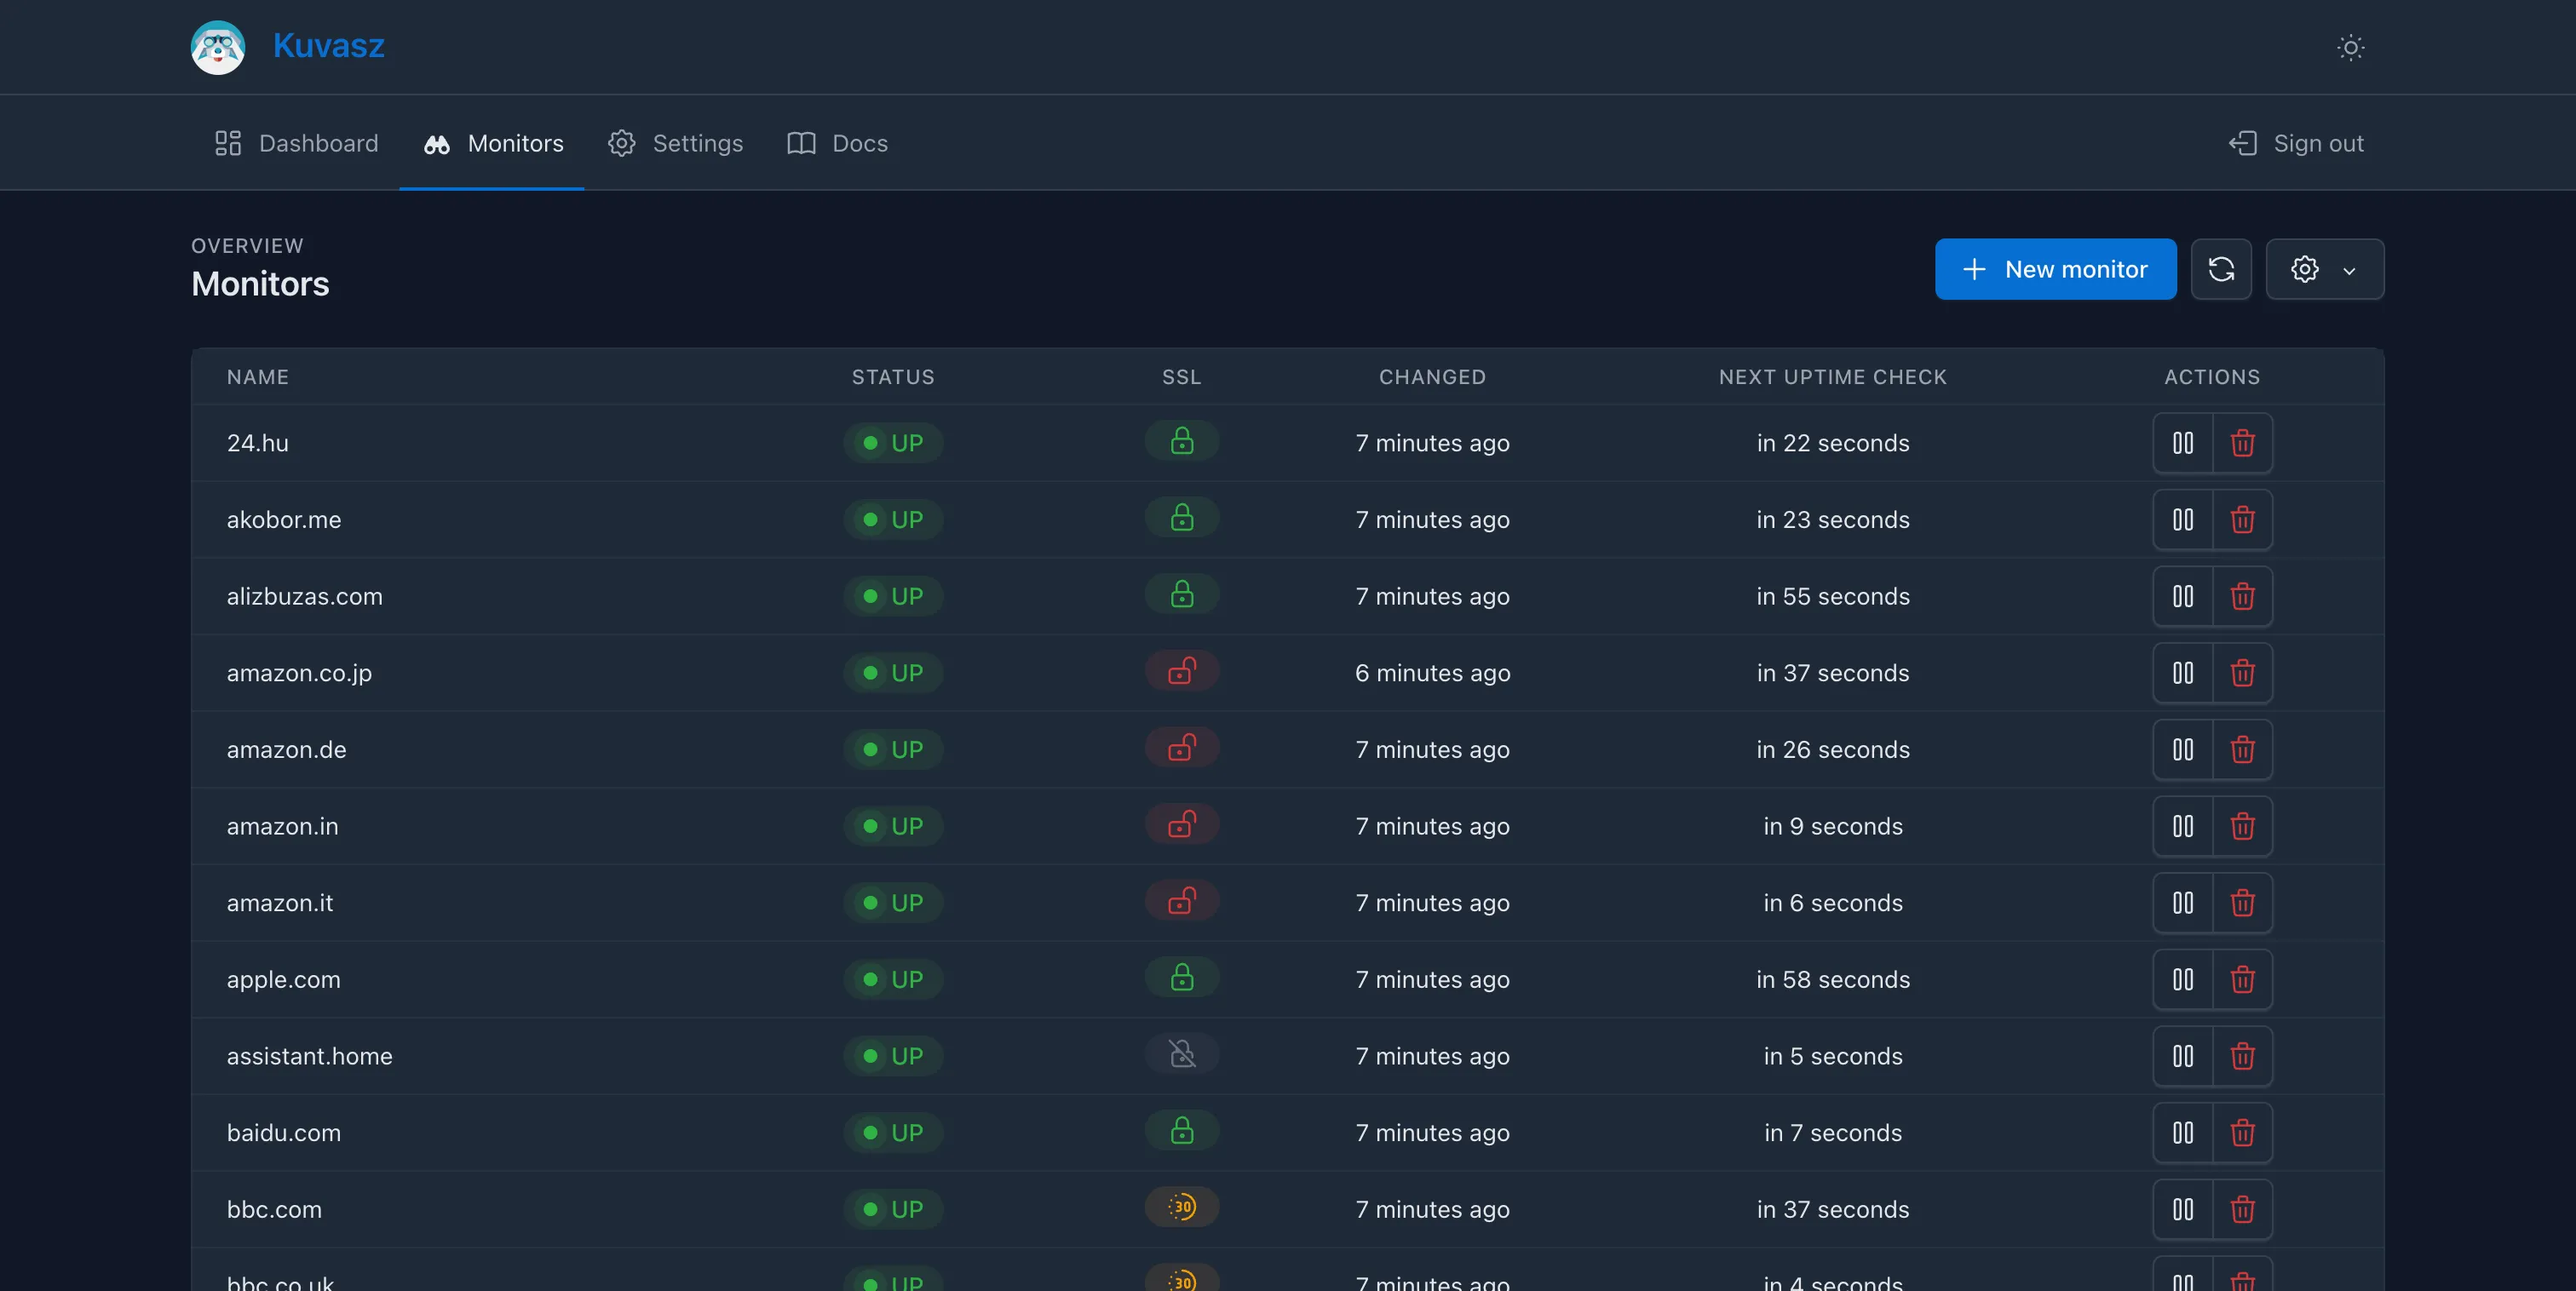
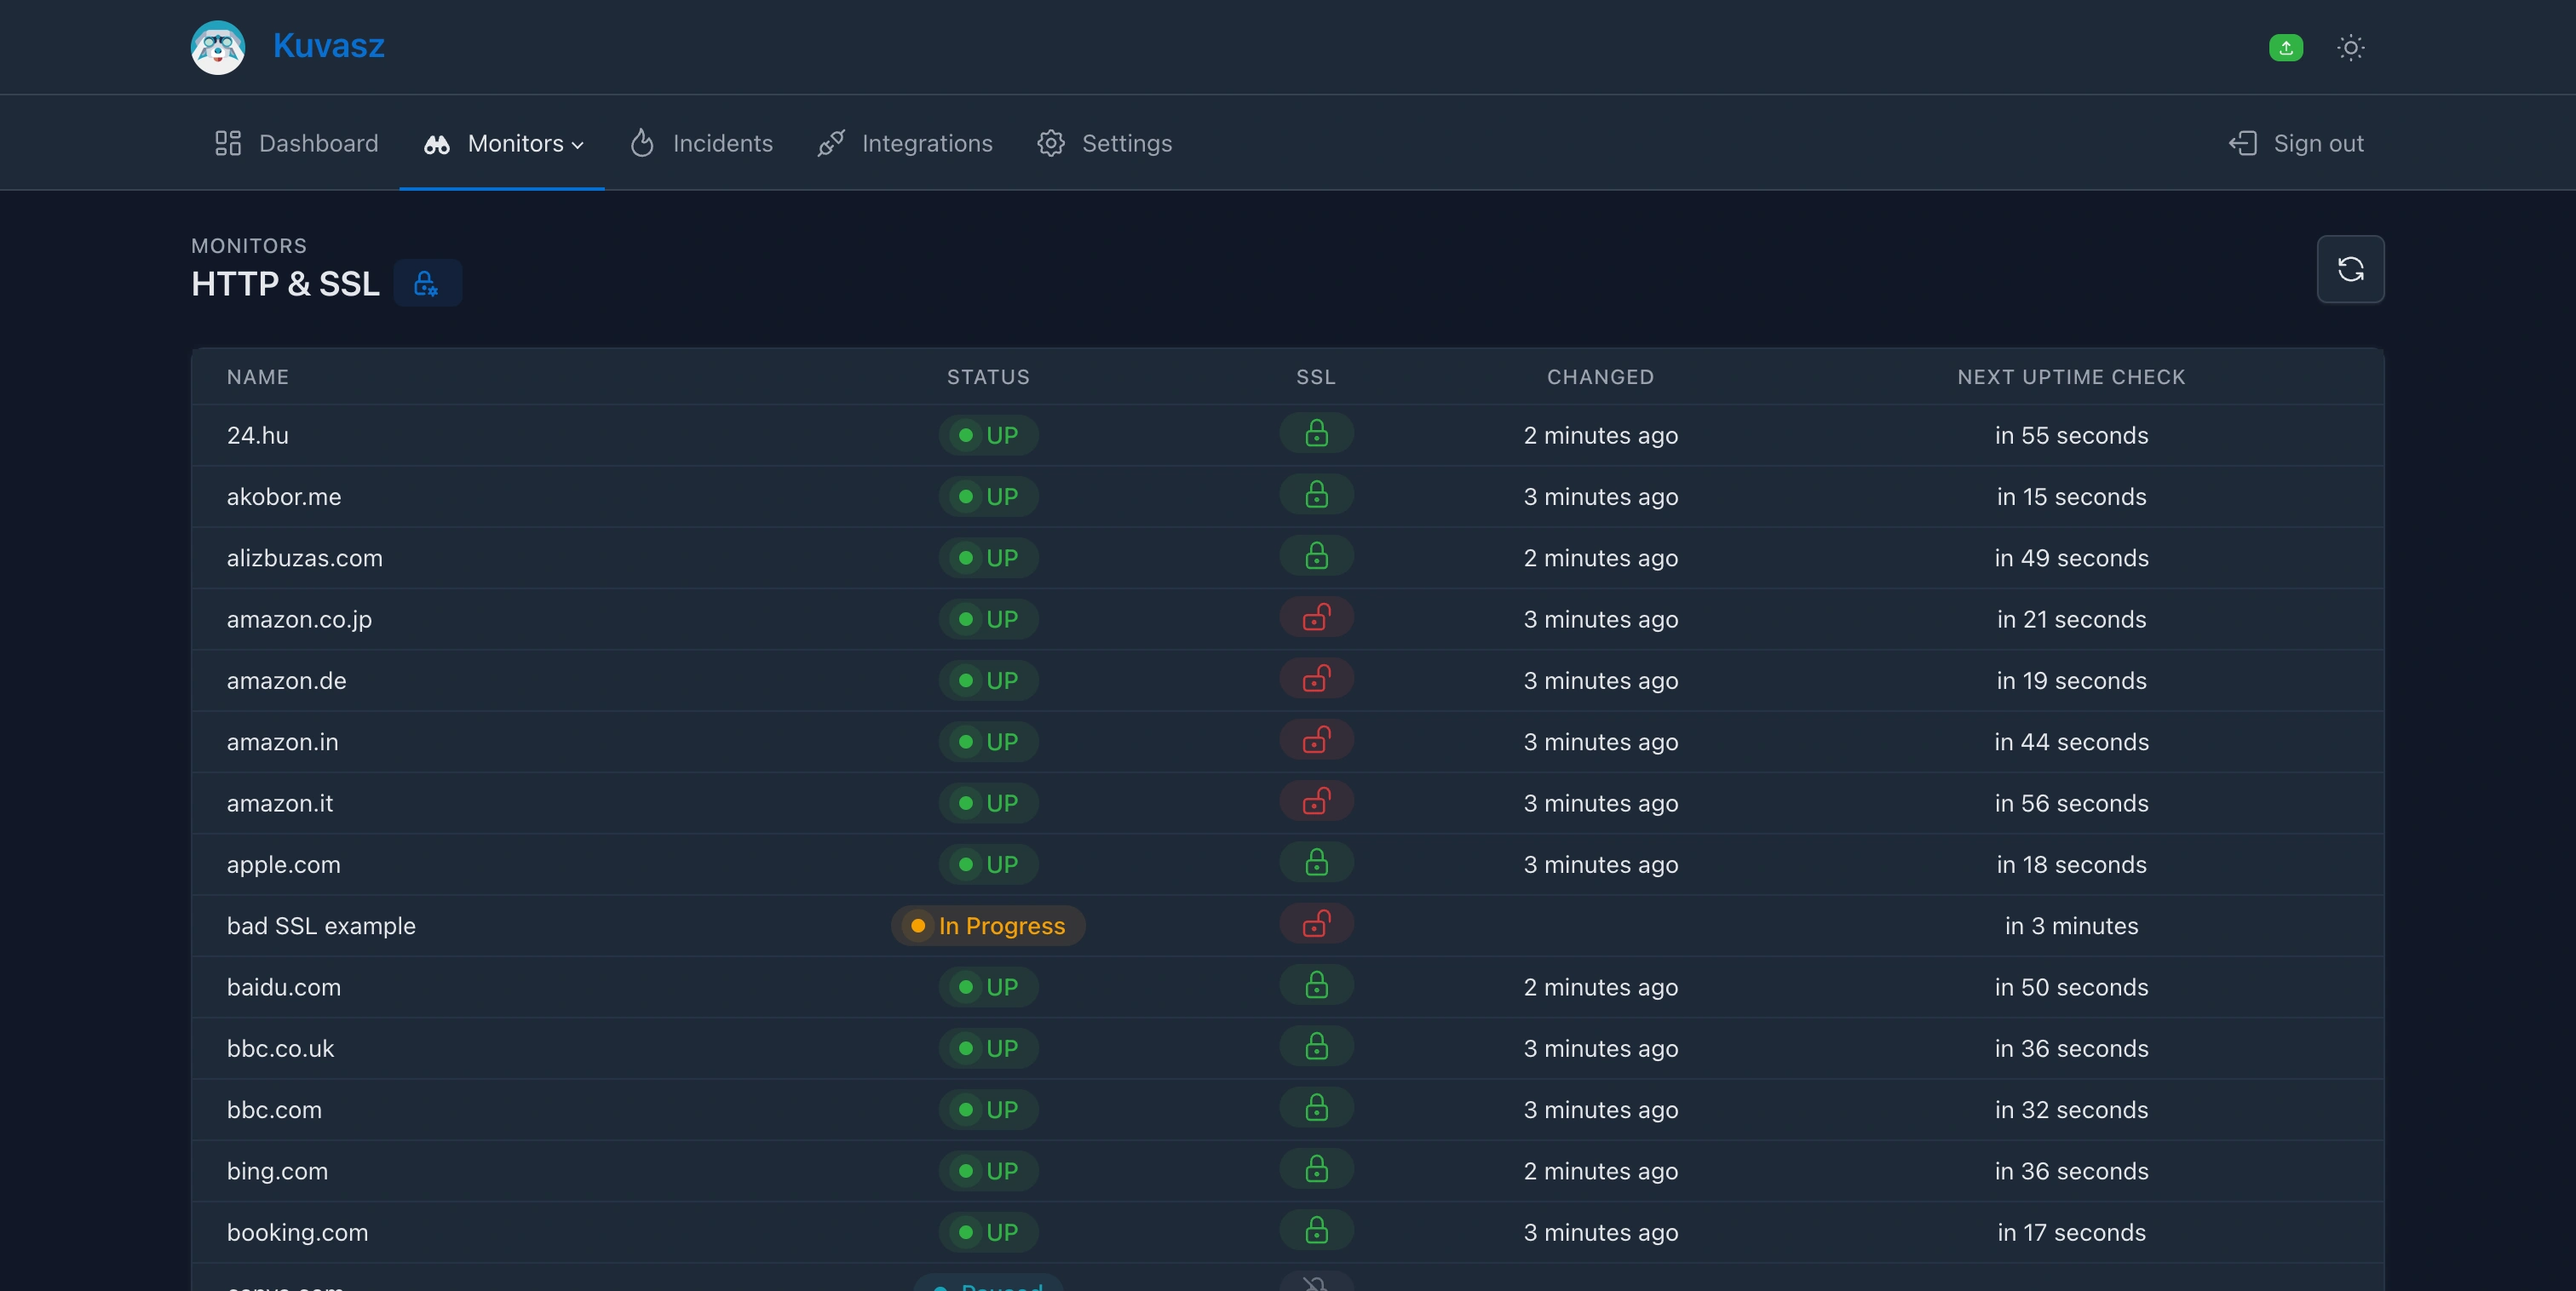
Refresh docs before 3.0.0 (#234)
* remove GH discussions

* docs: update UI screenshots

* docs: 3.0.0

diff --git a/docs/docs/index.md b/docs/docs/index.md
@@ -165,6 +165,3 @@ on [**Wikipedia**](https://en.wikipedia.org/wiki/Kuvasz){ target="_blank" }.
 ## Do you like it?
 
 While _Kuvasz_ is free and open-source, it still requires a lot of time and effort to maintain and develop. If you like it, please consider our [**sponsoring**](sponsoring.md) options.
-
-## Do you have a question?
-Let's go to the [**GitHub discussions**](https://github.com/kuvasz-uptime/kuvasz/discussions){ target="_blank" } or to our [**Discord server**](https://discord.com/invite/hMkyGPyU32){ target="_blank" }!

diff --git a/README.md b/README.md
@@ -108,7 +108,3 @@ While _Kuvasz_ is free and open-source, it still **requires a lot of time and ef
 [![ko-fi](https://ko-fi.com/img/githubbutton_sm.svg)](https://ko-fi.com/L4L31DH59D)
 
 ... or by [**sponsoring the project on GitHub**](https://github.com/sponsors/adamkobor/)
-
-## ⁉ Do you have a question?
-
-Let's go to the [discussions](https://github.com/kuvasz-uptime/kuvasz/discussions)!

diff --git a/docs/docs/changelog.md b/docs/docs/changelog.md
@@ -1,4 +1,4 @@
-## To be released { id="to-be-released" data-toc-label="To be released" }
+## 3.0.0 <small>2025-08-31</small> { id="3.0.0" data-toc-label="3.0.0" }
 
 ### Breaking changes
 
